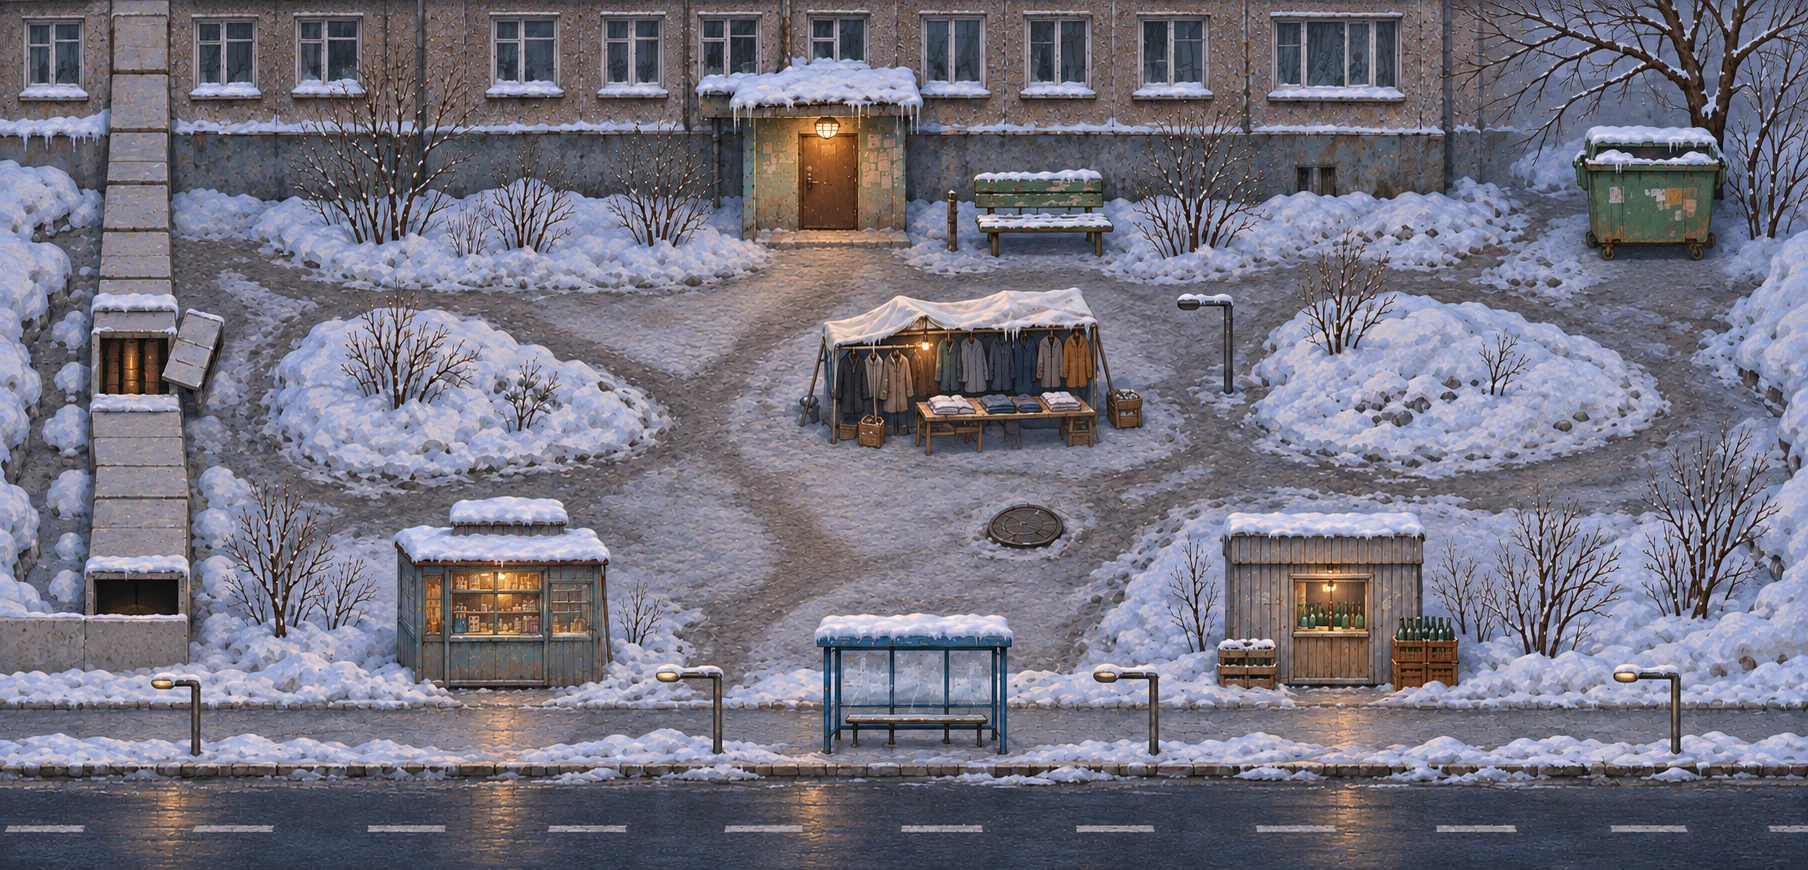
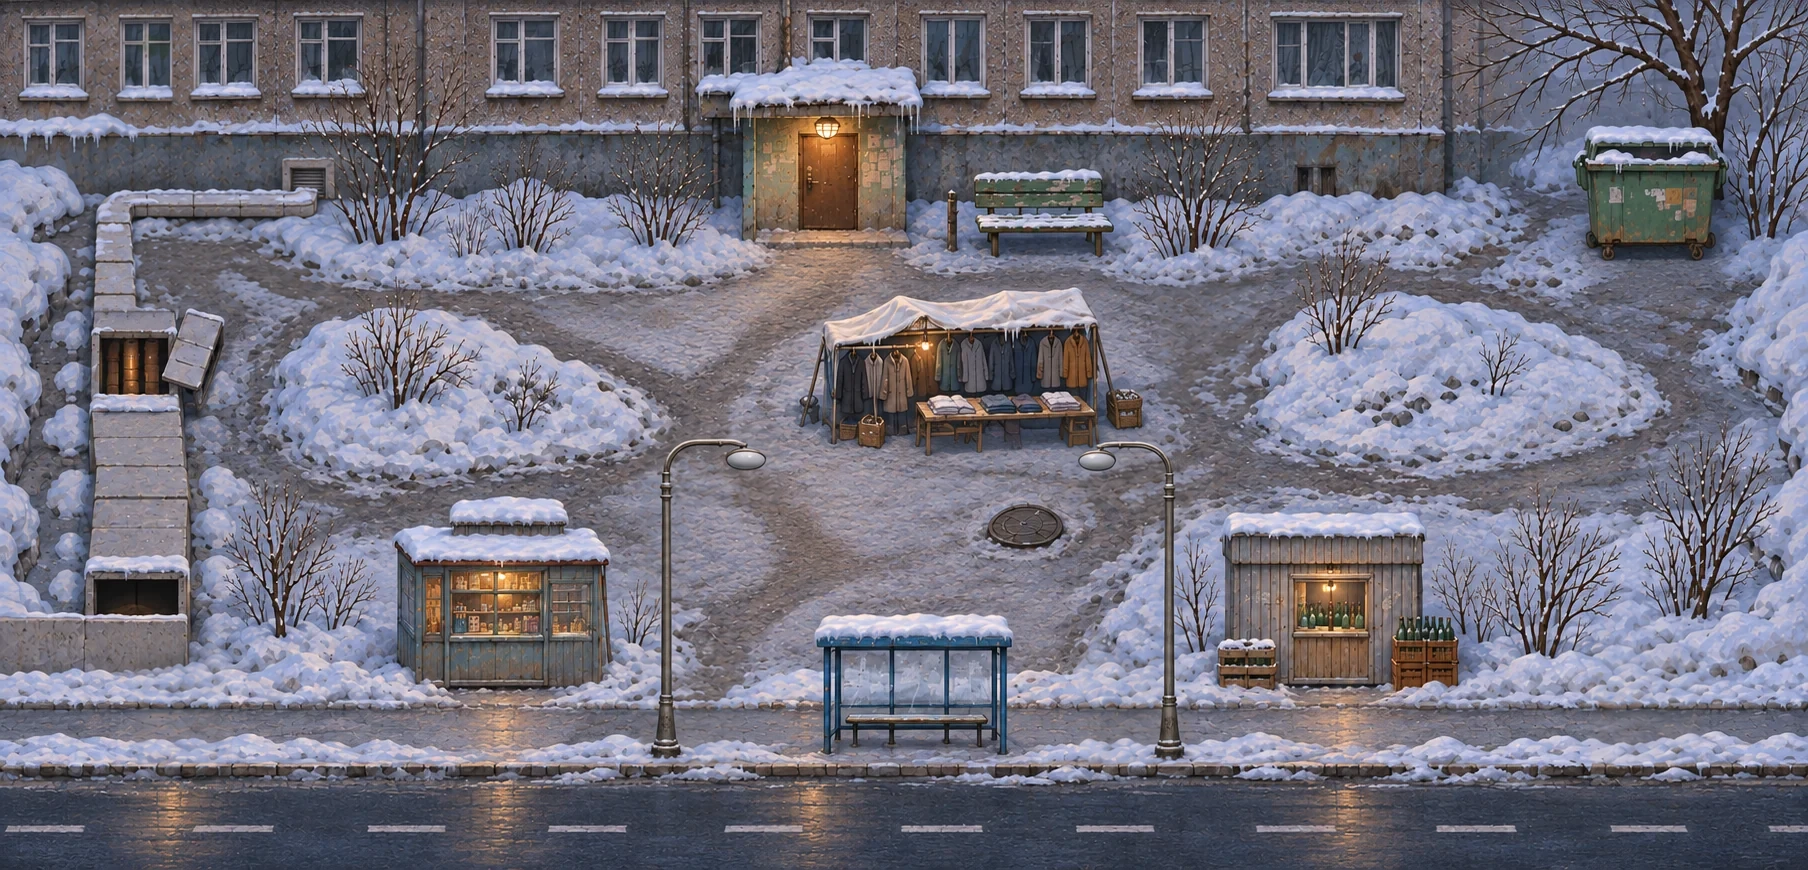
Обновить фонари, ночной свет и теплотрассу во дворе

diff --git a/art.js b/art.js
@@ -750,6 +750,7 @@
    * ===================================================================== */
   var field, bg, fx, bc, fc, frostCv = null, W = 0, H = 0, raf = 0, lastT = 0;
   var courtyard = null;
+  var postMask = null, postLayer = null, tiles = null;
   var closedShopArt = null;
   // Координаты фрагмента в атласе, размеры и положение на рисунке двора 1808×870.
   var shopFronts = [
@@ -768,13 +769,47 @@
       var x = shop.x * W / courtyard.width, y = shop.y * H / courtyard.height;
       var w = shop.w * W / courtyard.width, h = shop.h * H / courtyard.height;
       bc.drawImage(courtyard, shop.x, shop.y, shop.w, shop.h, x, y, w, h);
-      if (closed) bc.drawImage(closedShopArt, shop.sx, shop.sy, shop.w, shop.h, x, y, w, h);
+      if (closed) {
+        bc.drawImage(closedShopArt, shop.sx, shop.sy, shop.w, shop.h, x, y, w, h);
+        if (shop.id === 'stall') drawPostSilhouettes(bc);
+      }
     });
   }
   var NIGHT = 0.72;                // плотность темноты ночью
   var dark = 0;
   var windows = [], winTimer = 0, houseH = 0, houseW = 0, roadY = 0;
-  var lamp = { x: 0, y: 0 }, lampPuddle = null, streetLamps = [];
+  // Координаты стекла и пятки каждого столба на иллюстрации, в долях игрового поля.
+  var streetLamps = [
+    { x: 0.4126, y: 0.5287, footX: 0.3684, footY: 0.8644 },
+    { x: 0.6067, y: 0.5287, footX: 0.6466, footY: 0.8655 }
+  ];
+  // Контур столбов, дуг и плафонов на исходном холсте. Один и тот же срез
+  // сохраняет их перед закрытой палаткой и перекрывает идущую за столбом фигуру.
+  function drawPostSilhouettes(ctx) {
+    if (!courtyard) return;
+    if (!postMask) {
+      postMask = new Path2D();
+      var outline = new Path2D('M12 328 L13 318 17 314 21 272 21 72 19 70 19 61 21 59 22 45 Q22 14 57 14 L88 14 Q99 15 107 19 L106 25 Q124 25 126 34 Q124 46 104 46 Q85 45 85 35 Q85 27 101 25 L101 22 Q90 19 79 20 L57 20 Q29 20 29 45 L30 60 32 61 32 70 30 72 30 270 34 314 39 319 40 326 Q26 333 12 328 Z');
+      postMask.addPath(outline, new DOMMatrix().translate(640, 425));
+      // Арматура справа имеет зеркальный вынос и немного другую ширину дуги.
+      postMask.addPath(outline, new DOMMatrix().translate(1193, 426).scale(-0.93, 1));
+    }
+    ctx.save();
+    ctx.scale(W / 1808, H / 870);
+    ctx.clip(postMask);
+    ctx.drawImage(courtyard, 0, 0, 1808, 870);
+    ctx.restore();
+  }
+
+  function refreshPostLayer() {
+    if (!postLayer) {
+      postLayer = document.createElement('canvas');
+      postLayer.id = 'art-posts'; postLayer.className = 'art-layer';
+      postLayer.setAttribute('aria-hidden', 'true');
+    }
+    postLayer.width = W; postLayer.height = H;
+    drawPostSilhouettes(postLayer.getContext('2d'));
+  }
   var flakes = [], puffs = [], breathT = 0, kioskDim = 0, tNow = 0;
   var weatherEl = null, flakeN = 0, lastWind = -1;
   var stepsCv = null, sc = null, steps = [], lastStep = null, stepSide = 1, stepsDirty = false;
@@ -918,6 +953,7 @@
     if (courtyard) {
       // Изображение и точки взаимодействия растягиваются в одних и тех же долях игрового поля.
       bc.drawImage(courtyard, 0, 0, W, H);
+      refreshPostLayer();
       paintShopFronts(true);
       // Границы стёкол фасада на исходном холсте 1808×870. Рамы и снег остаются поверх света.
       var glazed = [[29, 24, 50, 56, 78, 80], [200, 24, 221, 228, 252, 80],
@@ -928,11 +964,9 @@
         return { x: g[0] * W / 1808, y: g[1] * H / 870, w: (g[4] - g[0]) * W / 1808, h: (g[5] - g[1]) * H / 870,
           pane1: (g[2] - g[0]) * W / 1808, pane2: (g[3] - g[0]) * W / 1808, lit: index % 3 !== 0, tone: index % 2 === 0 };
       });
-      lampPuddle = null;
-      lamp.x = W * 0.658; lamp.y = H * 0.349;
-      streetLamps = [0.09, 0.369, 0.611, 0.898].map(function (x) { return { x: x * W, y: H * 0.778 }; });
-      heatVents = [[0.083, 0.428], [0.075, 0.53], [0.075, 0.628], [0.076, 0.69]].map(function (point) {
-        return { x: point[0] * W, y: point[1] * H, w: 0.045 * W };
+      heatVents = [[0.0747, 0.4161, 0.03], [0.0741, 0.6828, 0.025],
+        [0.0642, 0.2943, 0.021], [0.1056, 0.2322, 0.005], [0.1554, 0.2322, 0.005]].map(function (point) {
+        return { x: point[0] * W, y: point[1] * H, w: point[2] * W };
       });
       return;
     }
@@ -943,7 +977,6 @@
     var swY = H * ST.sidewalkTop;           // тротуар: полоса между двором и дорогой, по ней ходят прохожие
     roadY = H * ST.roadTop;
     var roadH = H - roadY;
-    lamp.x = W * 0.615; lamp.y = H * 0.4;
 
     /* мокрый асфальт */
     var g = c.createLinearGradient(0, 0, 0, H);
@@ -982,7 +1015,6 @@
       c.fillStyle = 'rgba(120,145,165,.1)';
       c.beginPath(); c.ellipse(x + pud[i][2] * 0.2, y + 2, pud[i][2] * 0.35, pud[i][3] * 0.3, 0, 0, 6.28); c.fill();
     }
-    lampPuddle = { x: pud[0][0] * W, y: pud[0][1] * H, rx: pud[0][2], ry: pud[0][3] };
 
     /* грязный снег: газоны, края, под домом */
     snowPatch(c, r, W * 0.27, H * 0.51, W * 0.105, H * 0.125);
@@ -1112,17 +1144,15 @@
     }
     for (i = 0; i < windows.length; i++) drawWindow(windows[i]);
 
-    /* фонари: основание и плафон — дворовый и такие же вдоль дороги (walkers.street.lamps в data.js) */
-    function lampPost(lp) {
-      c.fillStyle = 'rgba(0,0,0,.35)'; c.beginPath(); c.ellipse(lp.x + 26, lp.y + 44, 30, 6, 0.2, 0, 6.28); c.fill();
-      c.strokeStyle = '#161a1e'; c.lineWidth = 7; c.beginPath(); c.moveTo(lp.x + 30, lp.y + 44); c.lineTo(lp.x + 30, lp.y - 6); c.lineTo(lp.x + 4, lp.y - 6); c.stroke();
-      c.strokeStyle = '#4a545c'; c.lineWidth = 3.5; c.beginPath(); c.moveTo(lp.x + 30, lp.y + 44); c.lineTo(lp.x + 30, lp.y - 6); c.lineTo(lp.x + 4, lp.y - 6); c.stroke();
-      c.fillStyle = '#20262b'; c.beginPath(); c.ellipse(lp.x, lp.y - 4, 13, 7, 0, 0, 6.28); c.fill();
-      c.fillStyle = '#2b3238'; c.beginPath(); c.ellipse(lp.x + 30, lp.y + 45, 9, 4.5, 0, 0, 6.28); c.fill();
-    }
-    lampPost(lamp);
-    streetLamps = (ST.lamps || []).map(function (fx) { return { x: W * fx - 30, y: H * (ST.lampY || 0.9) - 44 }; });   // столб стоит у бордюра, плафон смотрит на тротуар
-    streetLamps.forEach(lampPost);
+    /* Резервный нарисованный столб имеет ту же высоту и тот же вынос плафона, что и на иллюстрации. */
+    streetLamps.forEach(function (post) {
+      var x = post.x * W, y = post.y * H, footX = post.footX * W, footY = post.footY * H;
+      c.beginPath(); c.moveTo(footX, footY); c.lineTo(footX, y + H * 0.035);
+      c.quadraticCurveTo(footX, y - H * 0.02, x, y - H * 0.008);
+      c.lineWidth = Math.max(2, H * 0.009); c.strokeStyle = '#252c31'; c.stroke();
+      c.lineWidth *= 0.45; c.strokeStyle = '#687478'; c.stroke();
+      c.fillStyle = '#3d464b'; c.beginPath(); c.ellipse(x, y, W * 0.009, H * 0.006, 0, 0, 6.28); c.fill();
+    });
   }
 
   /* Иней по краям поля: рисуется один раз на размер окна, дальше им управляет только прозрачность и масштаб (--frost, задаёт game.js).
@@ -1220,6 +1250,26 @@
     fc.beginPath(); fc.arc(x, y, rad, 0, 6.28); fc.fill();
   }
 
+  // Плафон светится на высоте, а свет ложится широким овалом на тротуар под его выносом.
+  function drawStreetLighting(k, cutDarkness) {
+    streetLamps.forEach(function (post) {
+      var x = post.x * W, y = post.y * H;
+      var height = post.footY - post.y;
+      fc.save();
+      fc.translate(x, (post.footY + 0.022) * H);
+      fc.scale(W * height * 0.41, H * height * 0.18);
+      if (cutDarkness) cut(0, 0, 1, 0.86);
+      else glow(0, 0, 1, 0.28 * k, '255,200,124');
+      fc.restore();
+      if (cutDarkness) return;
+      var halo = Math.max(6, Math.min(W * 0.036, H * 0.066));
+      glow(x, y, halo, 0.44 * k, '255,205,136');
+      glow(x, y, halo * 0.35, 0.65 * k, '255,229,179');
+      fc.fillStyle = 'rgba(255,239,197,' + 0.92 * k + ')';
+      fc.beginPath(); fc.ellipse(x, y, W * 0.0053, H * 0.0028, 0, 0, Math.PI * 2); fc.fill();
+    });
+  }
+
   function frame(t) {
     raf = requestAnimationFrame(frame);
     var dt = Math.min(0.05, lastT ? (t - lastT) / 1000 : 0.016);
@@ -1227,6 +1277,14 @@
     if (field.clientWidth !== W || field.clientHeight !== H) resize();
     if (!W) return;
     paintShopFronts(false);
+    if (postLayer) {
+      if (postLayer.parentNode !== tiles) tiles.appendChild(postLayer);
+      for (var child = tiles.firstElementChild; child; child = child.nextElementSibling) {
+        if (child === postLayer) continue;
+        var post = parseFloat(child.style.left) < W * 0.5 ? streetLamps[0] : streetLamps[1];
+        child.classList.toggle('in-front-of-post', parseFloat(child.style.top) >= H * post.footY);
+      }
+    }
     var night = field.classList.contains('night');
     if (!weatherEl) weatherEl = document.getElementById('weather');
     var wind = weatherEl ? Math.min(2, +weatherEl.dataset.wind || 0) : 0;
@@ -1242,8 +1300,7 @@
     if (kioskDim > 0) kioskDim -= dt; else if (Math.random() < dt * 0.35) kioskDim = 0.07 + Math.random() * 0.12;
 
     /* источники света */
-    var lights = [{ x: lamp.x, y: lamp.y + 34, r: Math.max(210, W * 0.135), a: 1, w: 0.17 }];
-    for (i = 0; i < streetLamps.length; i++) lights.push({ x: streetLamps[i].x, y: streetLamps[i].y + 30, r: Math.max(150, W * 0.092), a: 0.9, w: 0.13 });   // уличные: пятно меньше дворового
+    var lights = [];
     var el = document.getElementById('place-entrance');
     if (el) { p = centerOf(el, fr); var dOpen = el.classList.contains('door-open'); lights.push({ x: p.x, y: p.y + 10, r: dOpen ? 215 : 135, a: dOpen ? 1 : 0.95, w: dOpen ? 0.34 : 0.13 }); }   // приоткрытая дверь («зайти следом») ночью светит сильнее и дальше
     el = document.getElementById('place-kiosk');
@@ -1333,6 +1390,7 @@
       fc.fillRect(0, 0, W, H);
       fc.globalCompositeOperation = 'destination-out';
       for (i = 0; i < lights.length; i++) cut(lights[i].x, lights[i].y, lights[i].r, lights[i].a);
+      drawStreetLighting(k, true);
       fc.fillStyle = 'rgba(0,0,0,.93)';
       for (i = 0; i < windows.length; i++) {
         var w = windows[i];
@@ -1370,16 +1428,7 @@
       fc.beginPath(); fc.moveTo(gx - 15, gy); fc.lineTo(gx + 15, gy); fc.lineTo(gx + 62, gy + 130); fc.lineTo(gx - 62, gy + 130); fc.closePath(); fc.fill();
       glow(dp.x - 4, dp.y + 2, 66, 0.42 * k * pl, '255,214,140');
     }
-    if (k > 0.03) {
-      glow(lamp.x, lamp.y - 2, 26, 0.9 * k, '255,226,160');
-      for (i = 0; i < streetLamps.length; i++) glow(streetLamps[i].x, streetLamps[i].y - 2, 24, 0.85 * k, '255,226,160');
-      if (lampPuddle) {
-        fc.fillStyle = 'rgba(255,196,110,' + (0.3 * k) + ')';
-        fc.beginPath(); fc.ellipse(lampPuddle.x - 14, lampPuddle.y - 2, lampPuddle.rx * 0.3, lampPuddle.ry * 0.4, 0, 0, 6.28); fc.fill();
-        fc.fillStyle = 'rgba(255,236,190,' + (0.5 * k) + ')';
-        fc.beginPath(); fc.ellipse(lampPuddle.x - 16, lampPuddle.y - 3, 5, 2.5, 0, 0, 6.28); fc.fill();
-      }
-    }
+    if (k > 0.01) drawStreetLighting(k, false);
     fc.globalCompositeOperation = 'source-over';
 
     /* пар: теплотрасса, люк, дыхание героя */
@@ -1426,7 +1475,7 @@
     var n = Math.min(flakes.length, Math.round(flakeN));
     var windV = WIND_PX[wind] * (1 + 0.25 * Math.sin(tNow * 0.7)) + 6 * Math.sin(tNow * 0.23);
     var vyMul = wet ? 1.9 : (blow ? 1.2 : 1);
-    var lr = lights[0].r * 0.85, lr2 = lr * lr, s, vx, vy;
+    var lr = Math.min(W * 0.065, H * 0.13), lr2 = lr * lr, s, vx, vy;
     if (blow || wet) {
       fc.beginPath();
       for (i = 0; i < n; i++) {
@@ -1449,7 +1498,8 @@
         s.x += (windV + Math.sin(tNow * 1.3 + s.ph) * 14) * dt;
         if (s.y > H + 4) { s.y = -4; s.x = Math.random() * W; }
         if (s.x > W + 4) { s.x = -4; s.y = Math.random() * H; }
-        var dx = s.x - lights[0].x, dy = s.y - lights[0].y;
+        var nearestLamp = s.x < W / 2 ? streetLamps[0] : streetLamps[1];
+        var dx = s.x - nearestLamp.x * W, dy = s.y - nearestLamp.y * H;
         if (k > 0.2 && dx * dx + dy * dy < lr2) fc.fillStyle = 'rgba(255,228,176,' + (0.55 + 0.4 * k) + ')';
         else fc.fillStyle = 'rgba(226,234,240,' + (0.78 - 0.4 * k) + ')';
         fc.beginPath(); fc.arc(s.x, s.y, s.r, 0, 6.28); fc.fill();
@@ -1460,6 +1510,7 @@
   function init() {
     field = document.getElementById('field');
     if (!field) return;
+    tiles = document.getElementById('layer-tiles');
     buildSpriteCss();
     bg = document.createElement('canvas'); bg.id = 'art-bg'; bg.className = 'art-layer';
     fx = document.createElement('canvas'); fx.id = 'art-fx'; fx.className = 'art-layer';
@@ -1478,7 +1529,7 @@
       if (W && H) drawBg();
       field.classList.add('painted-courtyard');
     };
-    plate.src = 'courtyard.webp?v=024';
+    plate.src = 'courtyard.webp?v=027';
     var shutters = new Image();
     shutters.onload = function () { closedShopArt = shutters; if (W && H) paintShopFronts(true); };
     shutters.src = 'shops-closed.webp';

diff --git a/index.html b/index.html
@@ -5,7 +5,7 @@
 <meta name="viewport" content="width=device-width, initial-scale=1, maximum-scale=1, user-scalable=no">
 <title>Бомж v0.1</title>
 <link rel="stylesheet" href="style.css?v=20261120b">
-<link rel="stylesheet" href="art.css?v=026">
+<link rel="stylesheet" href="art.css?v=027">
 <link rel="stylesheet" href="menu.css?v=024">
 </head>
 <body>
@@ -171,7 +171,7 @@
 <script src="data.js?v=023"></script>
 <script src="game.js?v=023"></script>
 <script src="sound.js?v=025"></script>
-<script src="art.js?v=026"></script>
+<script src="art.js?v=027"></script>
 <script src="menu.js?v=023"></script>
 </body>
 </html>

diff --git a/art.css b/art.css
@@ -9,6 +9,10 @@
 }
 #art-bg { z-index: 0; }
 #art-steps { z-index: 0; }
+#art-posts { z-index: 5; }
+.painted-courtyard .tile.in-front-of-post { z-index: 6; }
+.painted-courtyard .npc.in-front-of-post, .painted-courtyard .bus.in-front-of-post { z-index: 7; }
+.painted-courtyard .hero.in-front-of-post { z-index: 8; }
 #art-fx { z-index: 16; }
 
 /* ---------- двор ---------- */
